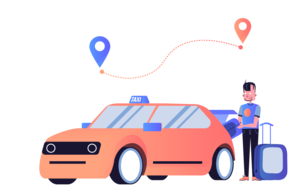
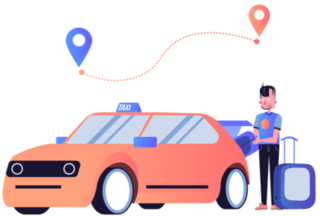
image size final3

diff --git a/index.html b/index.html
@@ -112,7 +112,20 @@
             <div data-date="August 2017 – July 2018">
                 <h3>Accenture</h3>
                 <h4>Associate Software Engineer</h4>
-                <p>
+                <ul>
+                    <li>
+                        Developed a Java EE application to manage doctor appointments and patients data using JSP, HTML, and Servlets.
+                    </li>
+                    <li>
+                        Designed front-end using HTML, CSS, JavaScript for websites and performed usability testing.
+                    </li>
+                    <li>
+                        Improved the search functionality in a website using SQL by raising its accuracy by 40%
+                    </li>
+                    <li>
+                        Performed code fixes and redesigns for future patches and releases to deliver bug-free software to the user.
+                    </li>
+                </ul>
                     
                 </p>
             </div>
@@ -150,7 +163,7 @@
             <div class="row">
                 <div class="project shadow-large">
                     <div class="project-image">
-                        <img src="images/cabeta.png" />
+                        <img src="images/taxi.png" />
                     </div>
                     <!-- End .project-image -->
                     <div class="project-info">
